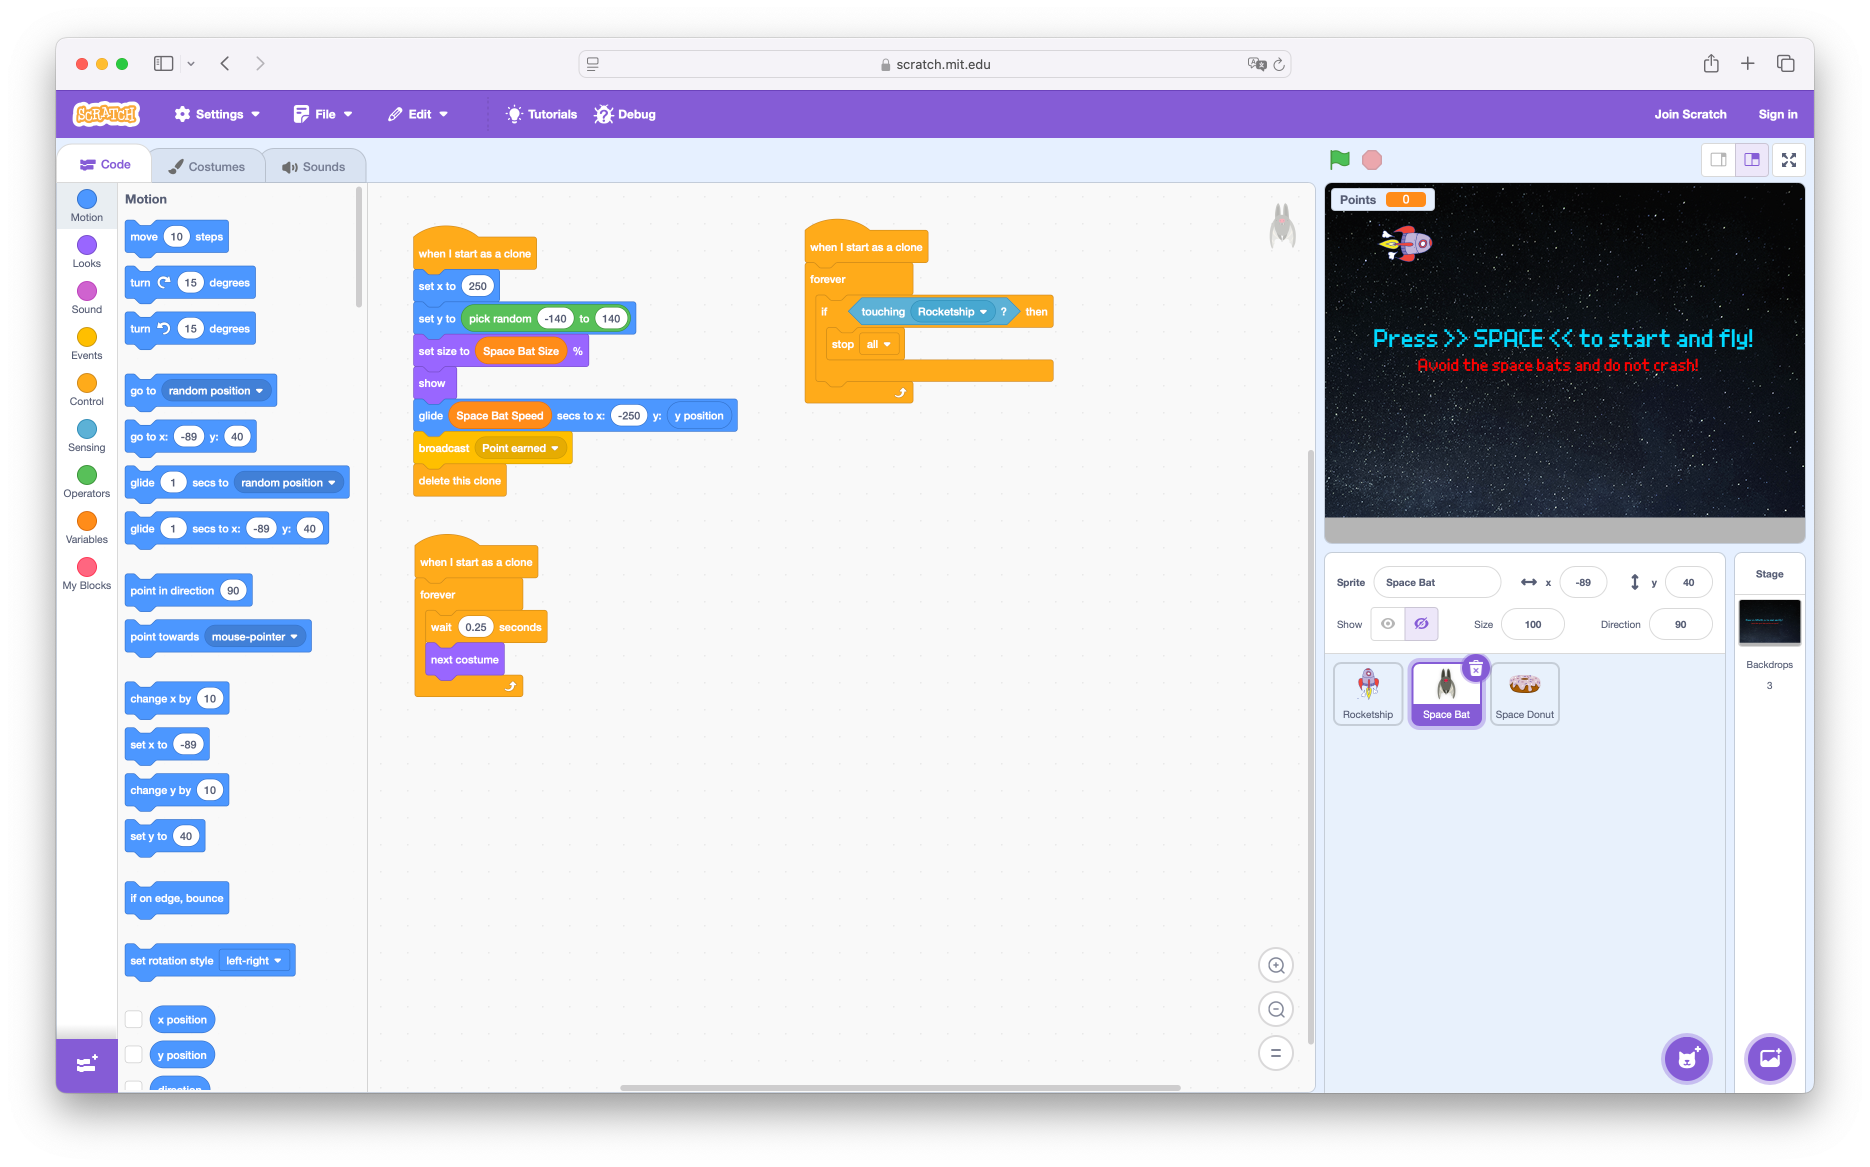
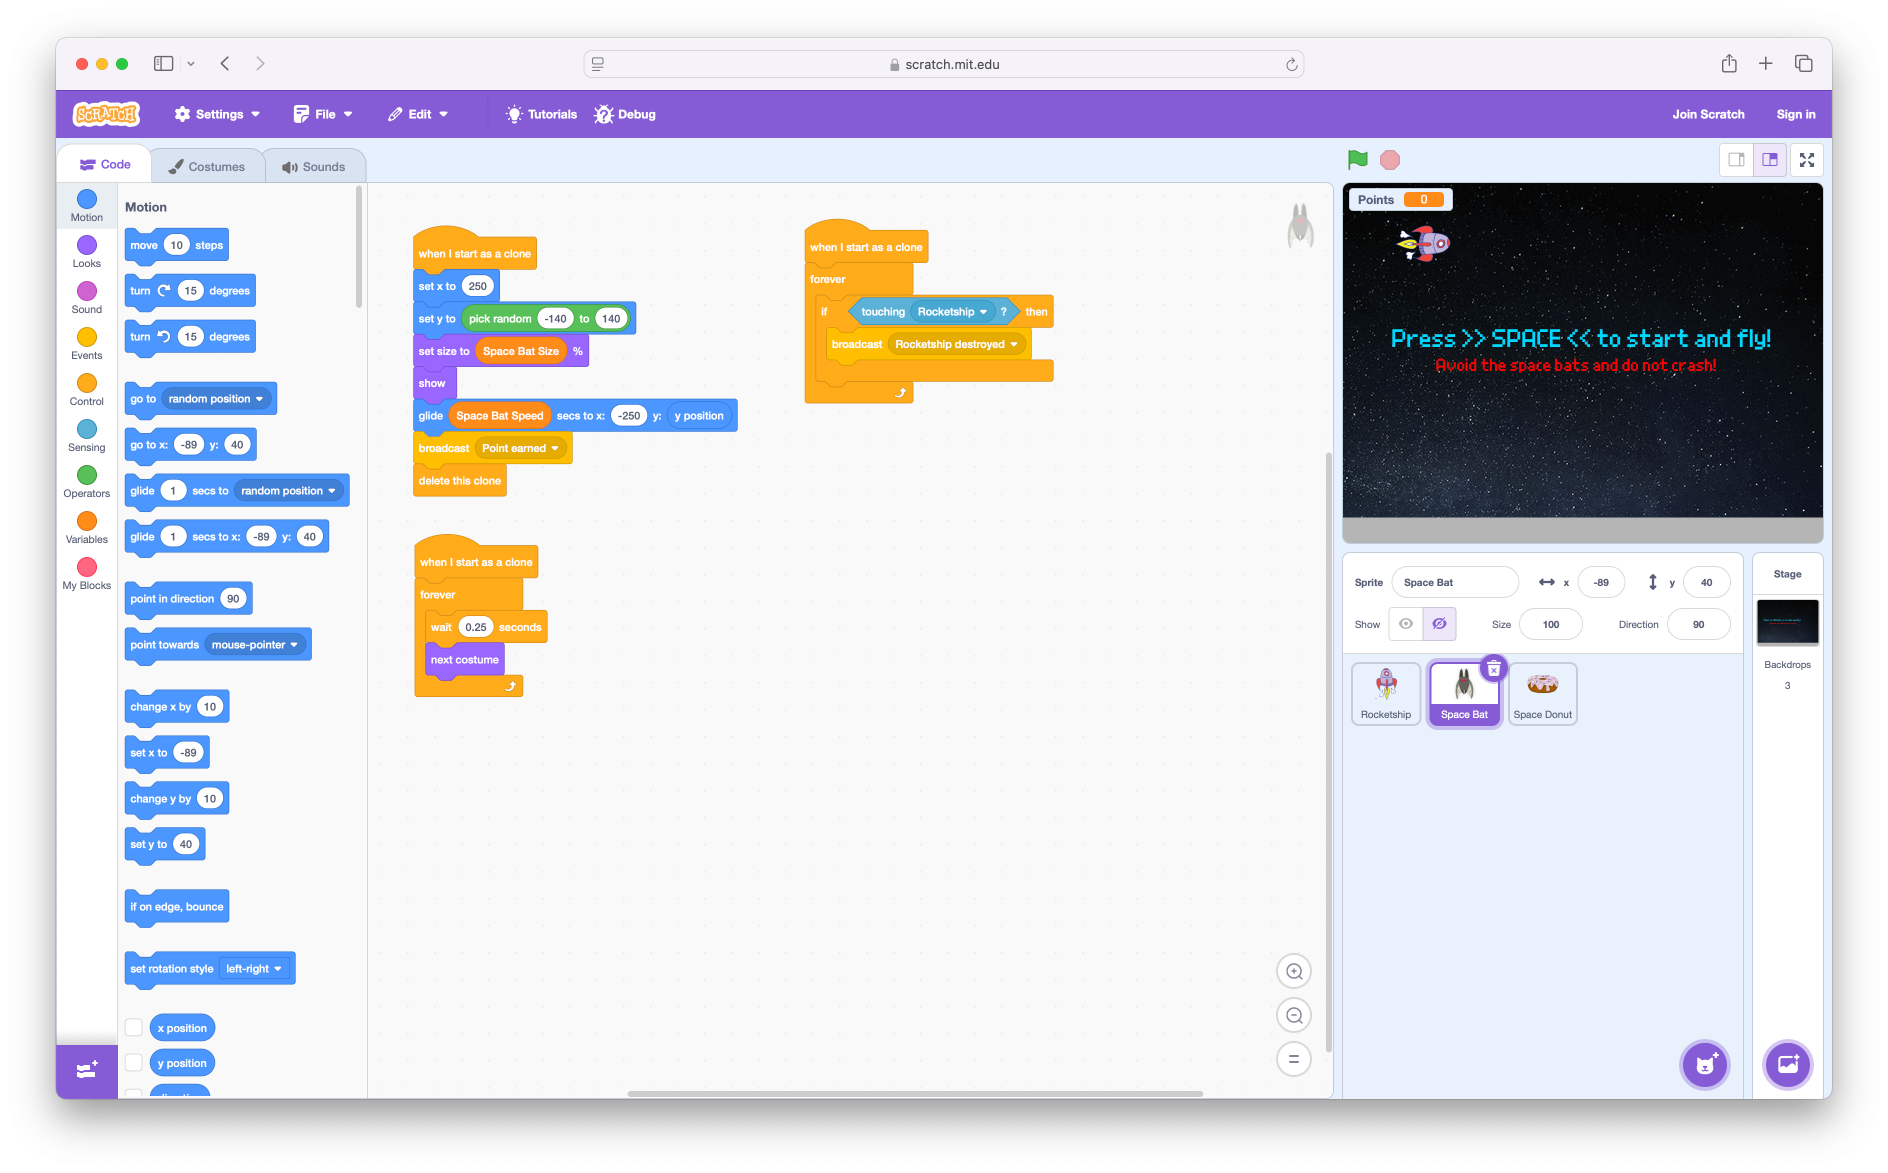
fix(space-bats): add missing step and correct wrong content

diff --git a/space-bats/tutorial.md b/space-bats/tutorial.md
@@ -59,7 +59,7 @@ This is a tutorial for creating a Space Bats game in
 
    ![Create the stars backdrop](./images/screenshot_background_2.webp)
 
-3. Name the new created backdrop "Space" and draw a small gray filled rectangle
+3. Name the new created backdrop "Stars" and draw a small gray filled rectangle
    at the bottom to show there is a planet nearby.
 
    ![Draw a small gray filled rectangle](./images/screenshot_background_3.webp)
@@ -396,7 +396,8 @@ Every Space Bat that passes the rocketship gives us one point.
    - Set a blue color.
    - Select the "Pixel" font.
    - Add the Text: `Press >> SPACE << to start and fly!`
-   - Set a larger size and a centered position.
+   - Set a larger size and a centered position. (Click on the select button
+     (Arrow) and the size and position of the selected text can be adjusted.)
    - Set a red color.
    - Add the Text: `Avoid the space bats and do not crash!`
    - Set a smaller size and a centered position.
@@ -456,6 +457,15 @@ Every Space Bat that passes the rocketship gives us one point.
      | Looks    | "show" |
 
    ![Add the screens 3](./images/screenshot_screens_6.webp)
+
+6. In the Code tab of the "Space Bat" sprite, replace the "stop [all]" control
+   block with an "broadcast (Spaceship destroyed)" event block.
+
+   | Category | Block                             |
+   | -------- | --------------------------------- |
+   | Events   | "broadcast (Spaceship destroyed)" |
+
+   ![Add the screens 4](./images/screenshot_screens_7.webp)
 
 ### Add a Space Donut
 
